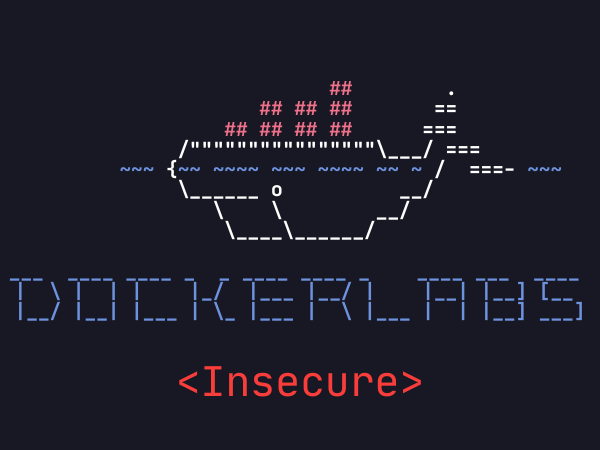
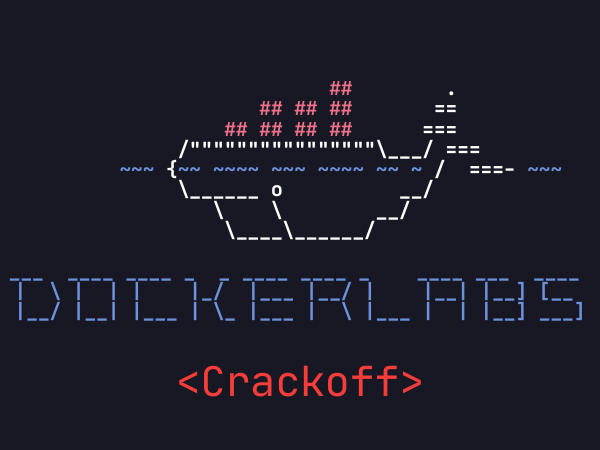
Nueva maquina dificil

Changed region(s): [[0.33, 0.8089, 0.66, 0.9022]]

diff --git a/index.html b/index.html
@@ -565,7 +565,7 @@
             </li>
 
             <li class="project-item  active" data-filter-item data-category="difícil">
-              <a href="#" target="_blank">
+              <a href="https://powerful-lock-ebc.notion.site/Crackoff-Dif-cil-18f10d4e13ec80c7bc47c3bba9c79aac?pvs=4" target="_blank">
 
                 <figure class="project-img">
                   <div class="project-item-icon-box">
@@ -575,9 +575,9 @@
                   <img src="./assets/images/9.png" alt="arrival" loading="lazy">
                 </figure>
 
-                <h3 class="project-title"><br> Insecure • Difícil <br></h3>
+                <h3 class="project-title"><br> Crackoff • Difícil <br></h3>
 
-                <p class="project-category">Web development</p>
+                <p class="project-category">| NMAP | SQLMAP | HYDRA | SSH | NETSTAT | CHISEL |PROXYCHAINS | METASPLOIT | MSFVENOM | NETCAT |</p>
 
               </a>
             </li>
